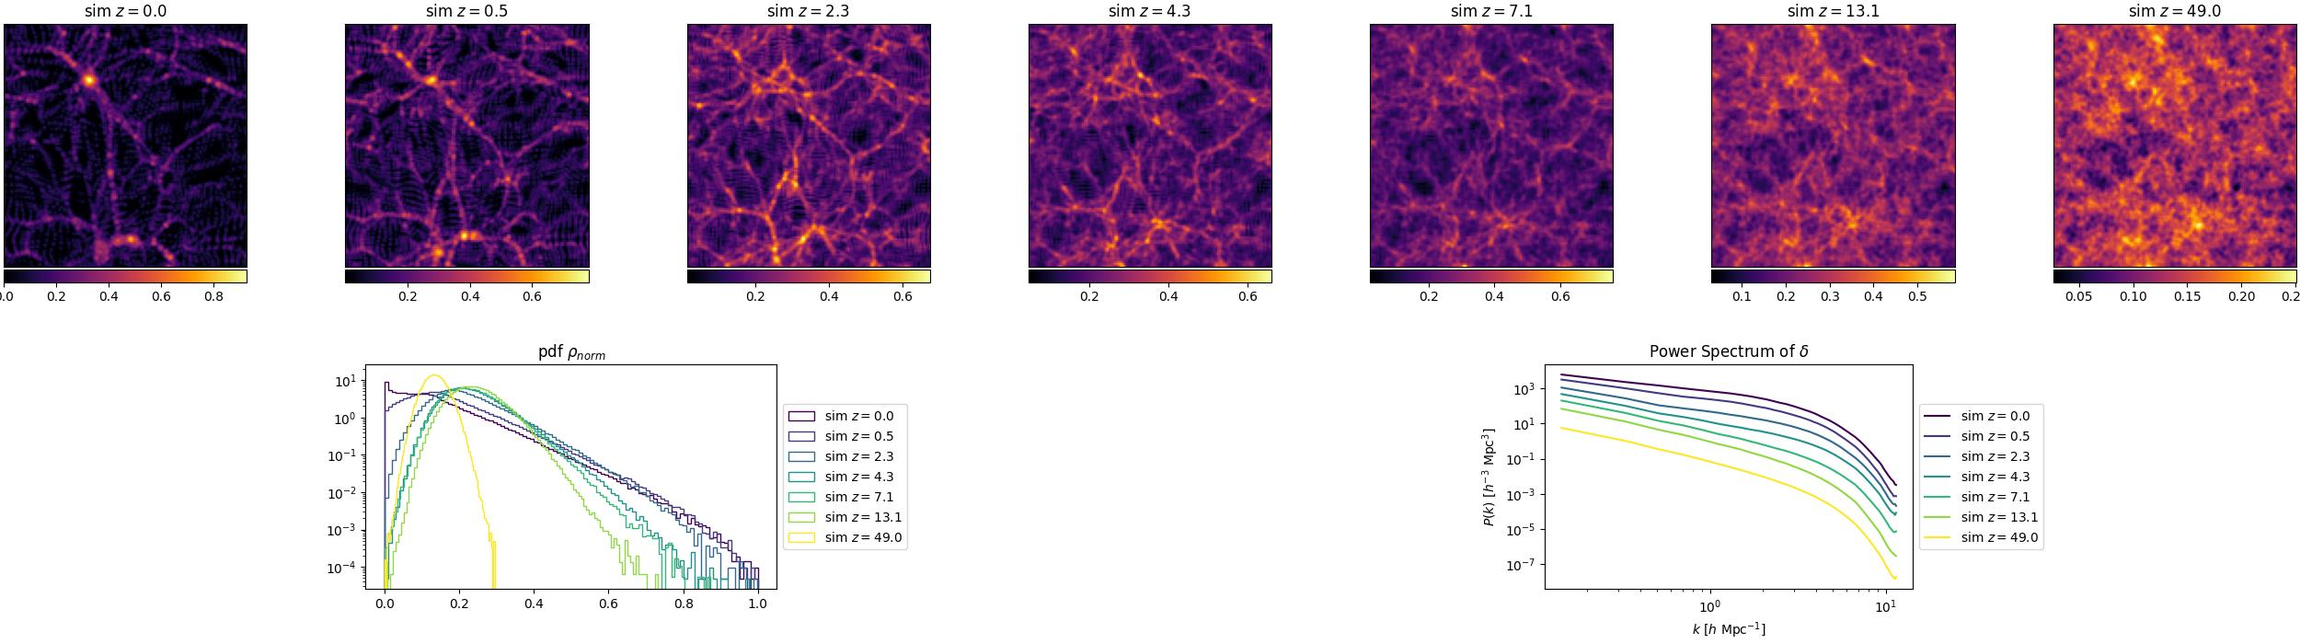
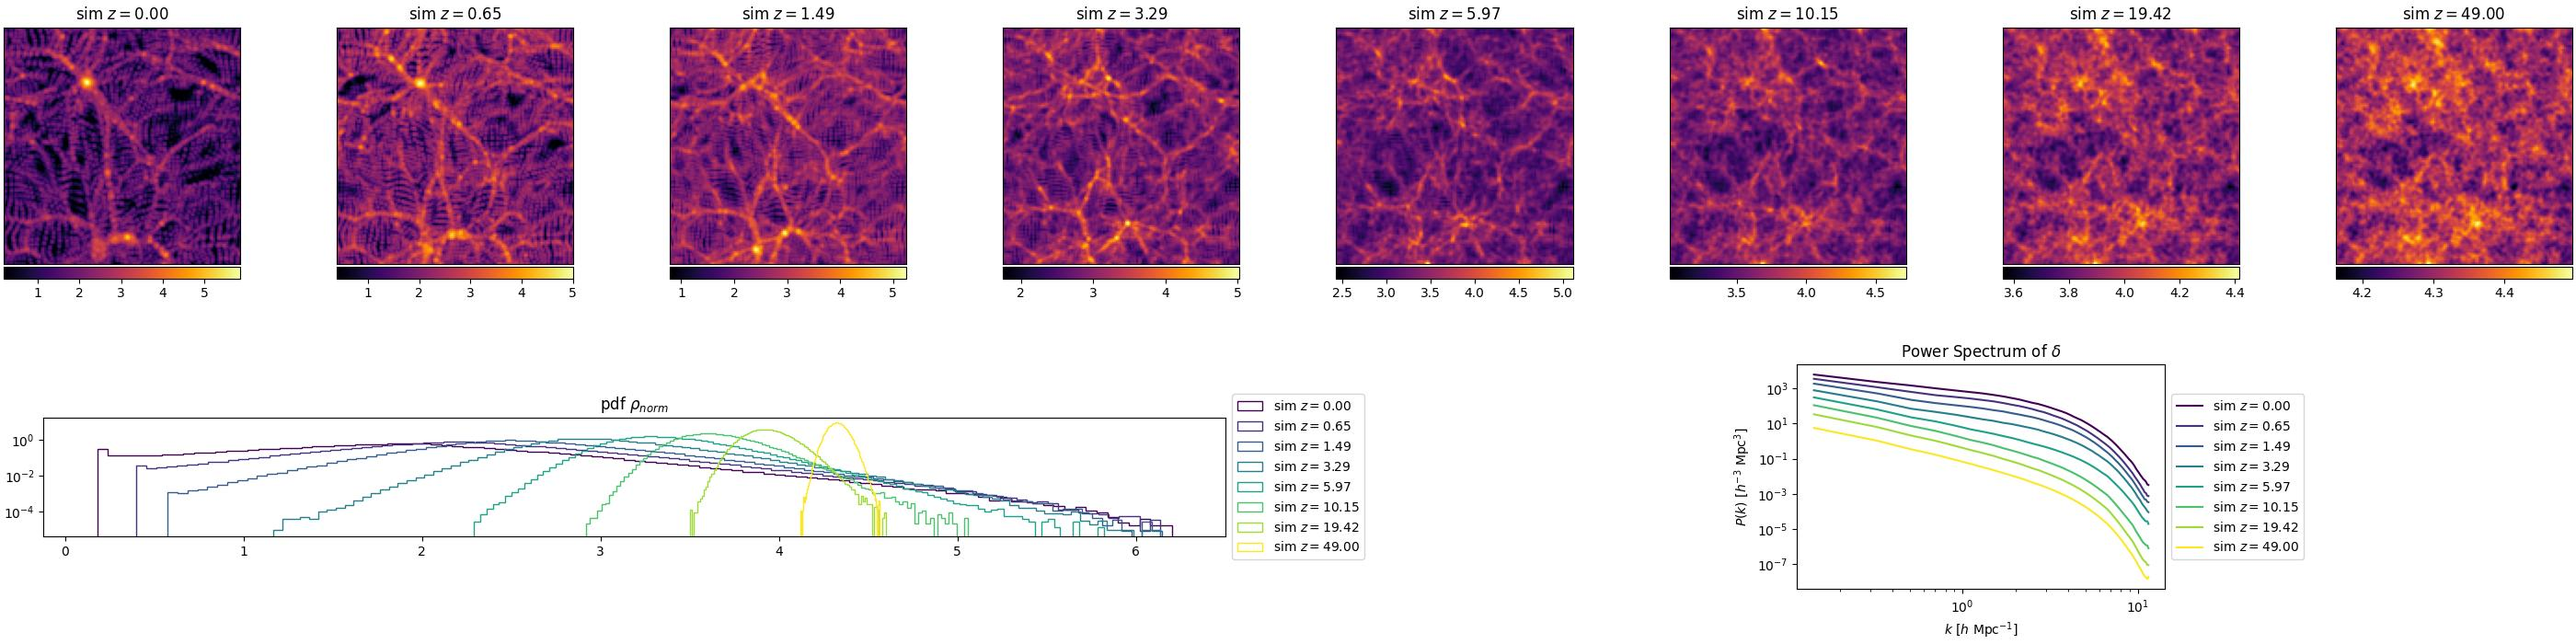
major improvements with different loss function

diff --git a/src/visualize/sequence.py b/src/visualize/sequence.py
@@ -42,26 +42,24 @@ def sequence(
     cmap = get_cmap('viridis') if long else get_cmap('Accent')
     colors = cmap(jnp.linspace(0, 1, frames if long else 6))
 
-    if config.flip and isinstance(config.file_index_stride, list): 
-        step = jnp.sum(jnp.array(config.file_index_stride))
+    file_index_stride = config.file_index_stride
+
+    if config.flip and isinstance(file_index_stride, list): 
+        step = jnp.sum(jnp.array(file_index_stride))
+        file_index_stride.reverse()
     elif config.flip:
-        step = config.file_index_stride * frames
+        step = config.file_index_start + config.file_index_stride * frames - 1
     else:
         step = config.file_index_start
 
     for frame in range(frames):
-        min = attributes[frame, 0]
-        max = attributes[frame, 1]
-
-        min = jax.device_put(min, device=jax.devices("gpu")[0])
-        max = jax.device_put(max, device=jax.devices("gpu")[0])
-
+        attribs = jax.device_put(attributes[frame], device=jax.devices("gpu")[0])
         normalized = sequence[frame]
-        rho = normalize_inv(normalized, attributes[frame], config.normalizing_function)
+        rho = normalize_inv(normalized, attribs, config.normalizing_function)
         delta = compute_overdensity(rho)
 
         ax_seq = fig.add_subplot(spec_sequence[0, frame])
-        ax_seq.set_title(fr'sim $z = {to_redshift(step/100):.1f}$')
+        ax_seq.set_title(fr'sim $z = {to_redshift(step/100):.2f}$')
         ax_seq.tick_params(left=False, bottom=False, labelleft=False, labelbottom=False)
 
         im_seq = ax_seq.imshow(normalized[grid_size // 2, : , :], cmap='inferno')
@@ -76,29 +74,31 @@ def sequence(
             log=True, 
             histtype="step",
             cumulative=False, 
-            label=fr'sim $z = {to_redshift(step/100):.1f}$',
+            label=fr'sim $z = {to_redshift(step/100):.2f}$',
             color=colors[frame])
         
         p,k = get_power(delta[:, :, :, 0], config.box_size)
         ax_power.plot(
             k, 
             p, 
-            label=fr'sim $z = {to_redshift(step/100):.1f}$',
+            label=fr'sim $z = {to_redshift(step/100):.2f}$',
             color=colors[frame])
         
-        if isinstance(config.file_index_stride, list): 
-            step += config.file_index_stride[frame] * (-1 if config.flip else 1)
-        else:
-            step += config.file_index_stride * (-1 if config.flip else 1)
+        if frame < frames-1:
+            if isinstance(file_index_stride, list): 
+                step += file_index_stride[frame] * (-1 if config.flip else 1)
+            else:
+                step += file_index_stride * (-1 if config.flip else 1)
 
         if pred and frame < frames-1:
             rho_pred_normalized = sequence_prediction[frame]
-            rho_pred = normalize_inv(rho_pred_normalized, attributes[frame+1], config.normalizing_function)
+            attribs = jax.device_put(attributes[frame+1], device=jax.devices("gpu")[0])
+            rho_pred = normalize_inv(rho_pred_normalized, attribs, config.normalizing_function)
             delta_pred = compute_overdensity(rho_pred)
 
             ax_seq = fig.add_subplot(spec_sequence[1, frame+1])
             ax_seq.tick_params(left=False, bottom=False, labelleft=False, labelbottom=False)
-            ax_seq.set_title(fr'pred $z = {to_redshift(step/100):.1f}$')
+            ax_seq.set_title(fr'pred $z = {to_redshift(step/100):.2f}$')
 
             im_seq = ax_seq.imshow(rho_pred_normalized[grid_size // 2, : , :], cmap='inferno')
             divider = make_axes_locatable(ax_seq)
@@ -113,14 +113,14 @@ def sequence(
                 log=True, 
                 histtype="step",
                 cumulative=False, 
-                label=fr'pred $z = {to_redshift(step/100):.1f}$',
+                label=fr'pred $z = {to_redshift(step/100):.2f}$',
                 color=colors[frame+1 if long else 3 + frame])
             
             axis = ax_power_pred if long else ax_power
             p,k = get_power(delta_pred[:, :, :, 0], config.box_size)
             axis.plot(
                 k, p, 
-                label=fr'pred $z = {to_redshift(step/100):.1f}$',
+                label=fr'pred $z = {to_redshift(step/100):.2f}$',
                 color=colors[frame+1 if long else 3 + frame])
 
     ax_power.set_yscale('log')

diff --git a/src/cosmos/helpers.py b/src/cosmos/helpers.py
@@ -44,7 +44,14 @@ def norm_log_delta_one(rho : jax.Array, a : float) -> Tuple[jax.Array, jax.Array
 
     delta, mean = compute_overdensity_mean(rho)
 
-    normalized = jnp.log10((delta / a) + 1)
+    # print(delta.min())
+    # print(delta.max())
+    # print(a)
+
+    normalized = rho/10**2
+    normalized += 1.5
+    normalized /= a
+    normalized = jnp.log10(normalized)
 
     attributes = jnp.array([mean, a])
 
@@ -54,8 +61,11 @@ def norm_log_delta_one_inv(normalized : jax.Array, attributes : jax.Array) -> ja
     mean = attributes[0]
     a = attributes[1]
 
-    rho = jnp.power(10, (normalized - 1) * a)
+    rho = jnp.power(10, normalized)
+    rho *= a
+    rho -= 1.5
+    rho *= 10**2
 
-    rho = compute_rho(rho, mean)
+    # rho = compute_rho(rho, mean)
 
     return rho

diff --git a/src/train.py b/src/train.py
@@ -141,7 +141,10 @@ def main(argv) -> None:
 
     now = datetime.now()
     datetime_str = now.strftime("%Y%m%d_%H%M%S")
-    filename =f"{config.model_dir}/model_{config.file_index_stride[0]:03d}_{config.file_index_start:03d}.eqx"
+    if isinstance(config.file_index_stride, list): 
+        filename =f"{config.model_dir}/model_{config.file_index_stride[0]:03d}_{config.file_index_start:03d}.eqx"
+    else:
+        filename =f"{config.model_dir}/model_{config.file_index_stride:03d}_{config.file_index_start:03d}.eqx"
     # filename =f"{config.model_dir}/model_{config.file_index_stride[0]}_{datetime_str}.eqx"
     nn.save_sequential_model(
         filename, 

diff --git a/src/data/directory_data.py b/src/data/directory_data.py
@@ -74,6 +74,7 @@ class DirectorySequence:
         self.stride = stride
         self.normalizing_function = normalizing_function
         if isinstance(self.stride, list): 
+            self.stride = stride.copy()
             self.stride.append(0)
         self.flip = flip
         self.grid_folders = os.listdir(self.grid_dir)
@@ -123,8 +124,6 @@ class DirectorySequence:
                 rho += 0.0001
 
                 a = to_expansion(time/len(grid_files))
-
-                print(a)
 
                 normalized, attributes_ = normalize(rho, a, self.normalizing_function)
 

diff --git a/src/evaluate.py b/src/evaluate.py
@@ -21,10 +21,10 @@ def main(argv) -> None:
     dataset = data.DirectorySequence(
         grid_size = config.input_grid_size,
         grid_directory = config.grid_dir,
-        tipsy_directory = config.tipsy_dir,
         start = config.file_index_start,
         steps = config.file_index_steps,
         stride = config.file_index_stride,
+        normalizing_function = config.normalizing_function,
         flip = config.flip,        
         type = "test")  
 

diff --git a/src/config/config.py b/src/config/config.py
@@ -4,7 +4,6 @@ class Config(NamedTuple):
     # Dataset
     grid_dir : str
     model_dir : str
-    output_tipsy_file : str
     model_type : str
     input_grid_size : int
     grid_size : int
